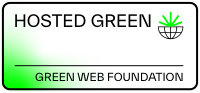
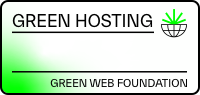
Bg image tweaks and text placement

diff --git a/apps/greencheck/api/legacy_image_view.py b/apps/greencheck/api/legacy_image_view.py
@@ -58,13 +58,15 @@ def add_hosted_text(draw, text_color, domain, provider=None, green=False):
 
     if green:
         if provider:
-            draw.text((TEXT_POSITION_LEFT, 33), f"{domain}", TEXT_COLOR, font=font_settings_green)
-            hosted_by_message = f"hosted by {provider}"
-            draw.text((TEXT_POSITION_LEFT, 48), hosted_by_message, text_color, font=font_settings_green)
+            draw.text((TEXT_POSITION_LEFT, 43), f"{domain}", TEXT_COLOR, font=font_settings_green)
+            hosted_by_message = f"Hosted by {provider}"
+            draw.text((TEXT_POSITION_LEFT, 55), hosted_by_message, text_color, font=font_settings_green)
         else:
             draw.text((TEXT_POSITION_LEFT, 40), f"{domain}", TEXT_COLOR, font=font_settings_green)
     else:
-        draw.text((TEXT_POSITION_LEFT, 48), f"{domain}", TEXT_COLOR, font=font_settings_grey)
+        no_evidence_message = f"No evidence found for green hosting"
+        draw.text((TEXT_POSITION_LEFT, 43), no_evidence_message, TEXT_COLOR, font=font_settings_green)
+        draw.text((TEXT_POSITION_LEFT, 55), f"{domain}", TEXT_COLOR, font=font_settings_grey)
 
 
 
